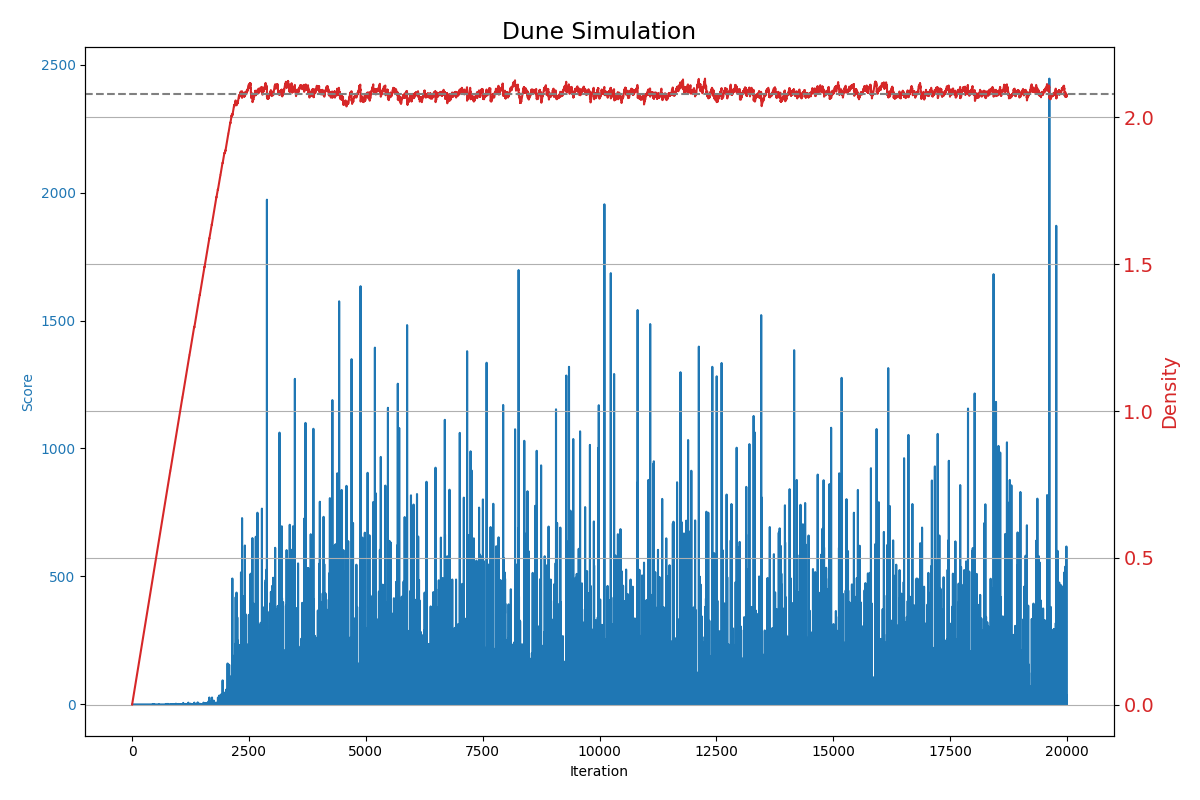
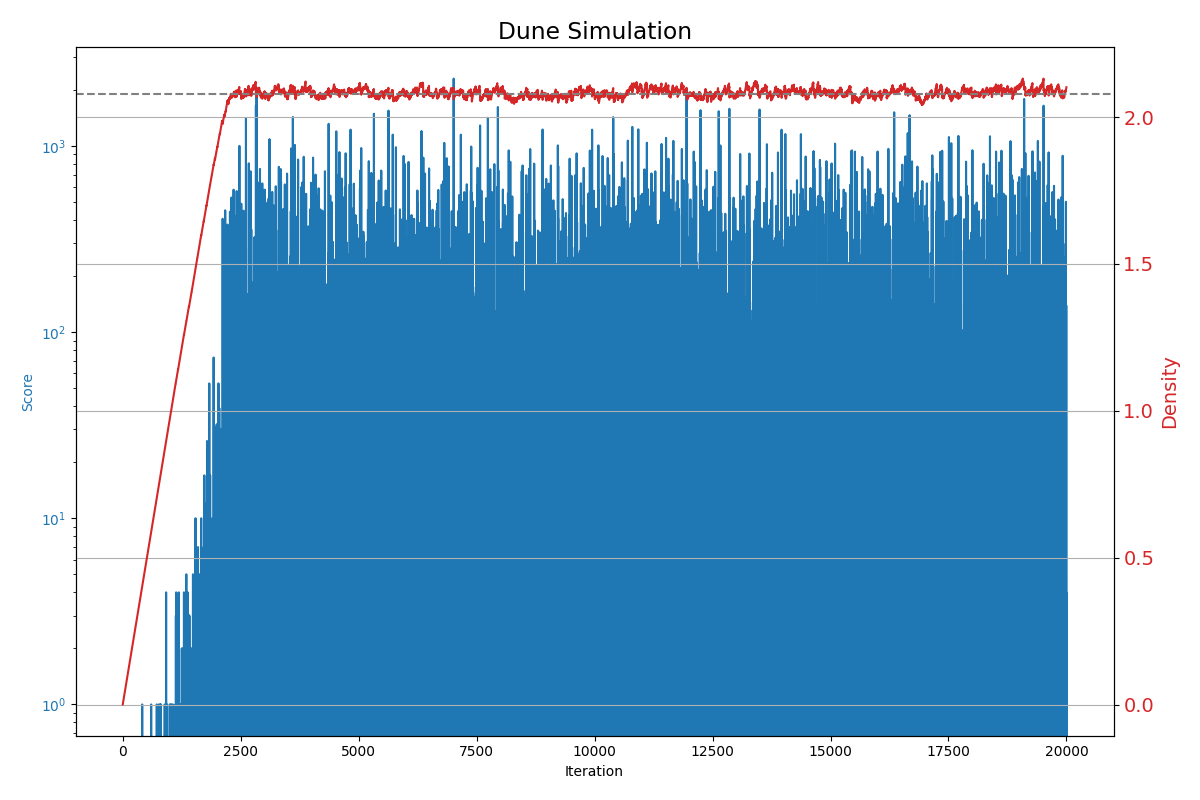
hw1: change the figures, optimize the algorithm

diff --git a/hw1/dune2.py b/hw1/dune2.py
@@ -4,7 +4,7 @@ import numpy as np
 from dune import *
 
 if __name__ == "__main__":
-    length_list = [8, 16, 32, 64]
+    length_list = [16, 32, 48, 64]
     scores_list = []
 
     for length in length_list:
@@ -12,28 +12,30 @@ if __name__ == "__main__":
         iter_num = 100000
         scores = np.zeros(iter_num)
         for i in range(iter_num):
-            (score, density) = iterate(dune, length)
+            (score, _) = iterate(dune, length)
             scores[i] = score
             if i % 10000 == 0:
-                print(f"LENGTH {length}, Iteration {i}: Score = {score}, Density = {density:.2f}", end="\r")
+                print(f"LENGTH {length}, Iteration {i}: Score = {score}", end="\r")
         
         scores_list.append(scores)
 
-    fig, ax = plt.subplots(2,2, figsize=(16,16))
-    plt.tight_layout(pad=5.0)
+    fig = plt.figure(figsize=(12, 8))
+    # plt.tight_layout(pad=5.0)
     plt.rcParams['font.size'] = 14
 
     for (i, length) in enumerate(length_list):
         scores = scores_list[i][10000:]
-        scores = scores[scores > 0]
-        ax[i//2, i%2].hist(np.log10(scores), bins=100, density=True, alpha=0.5, color='red', label=f"LENGTH={length}")
-        ax[i//2, i%2].set_title(f"LENGTH={length}")
-        ax[i//2, i%2].set_xlabel('log(Score)')
-        ax[i//2, i%2].set_ylabel('Density')
-        ax[i//2, i%2].set_yscale('log')
-        # ax[i//2, i%2].set_xscale('log')
-        # ax[i//2, i%2].set_xlim((1,1000))
-        ax[i//2, i%2].grid(True)
-    
+        bins = np.logspace(np.log10(1), np.log10(np.max(scores)), 100)
+        hist, bin_edges = np.histogram(scores[scores > 0], bins=bins)
+        # hist, bin_edges = np.histogram(scores[scores > 0], bins=100)
+        hist = hist / len(scores)
+        plt.plot(bin_edges[:-1], hist, label=f"LENGTH={length}")
+
+    plt.xlabel('Score')
+    plt.ylabel('Density')
+    plt.xscale('log')
+    plt.yscale('log')
+    plt.grid(True)
+    plt.legend()
     plt.savefig("ScoreDist.png")
     plt.show()

diff --git a/hw1/dune.py b/hw1/dune.py
@@ -1,3 +1,4 @@
+from collections import deque
 import numpy as np
 
 LENGTH = 32
@@ -10,19 +11,19 @@ def islegal(coor, length=LENGTH):
 
 def neighbors(coors, length=LENGTH):
     res = []
-    for coor in coors:
-        res_list = [(coor[0]-1, coor[1]), (coor[0]+1, coor[1]),
-                    (coor[0], coor[1]-1), (coor[0], coor[1]+1)]
+    for (row, col) in coors:
+        res_list = [(row-1, col), (row+1, col),
+                    (row, col-1), (row, col+1)]
         for i in res_list:
             if islegal(i, length):
                 res.append(i)
     return res
 
 def depletion(dune, init_coor, length=LENGTH):
-    coors = [init_coor]
+    coors = deque([init_coor])
     score = 0
     while len(coors) > 0:
-        (row, col) = coors.pop(0)
+        (row, col) = coors.popleft()
         if dune[row, col] < 4:
             continue
         dune[row, col] -= 4

diff --git a/hw1/dune1.py b/hw1/dune1.py
@@ -25,6 +25,7 @@ if __name__ == "__main__":
     ax1.set_ylabel('Score', color=color)
     ax1.plot(x_array, scores, color=color)
     ax1.tick_params(axis='y', labelcolor=color)
+    ax1.set_yscale('log')
 
     ax2 = ax1.twinx()
     color = 'tab:red'
